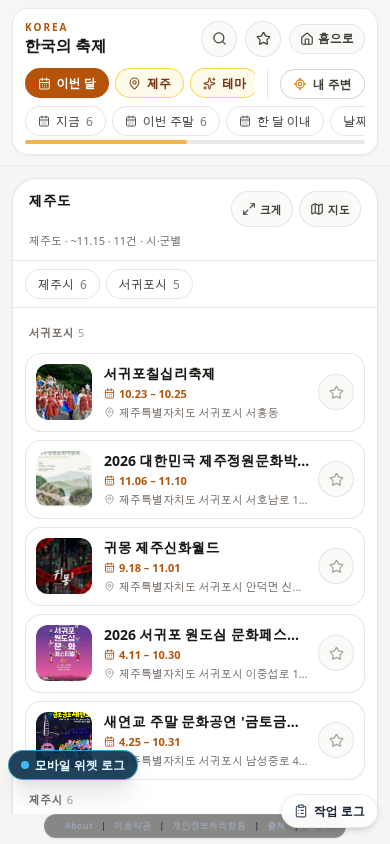
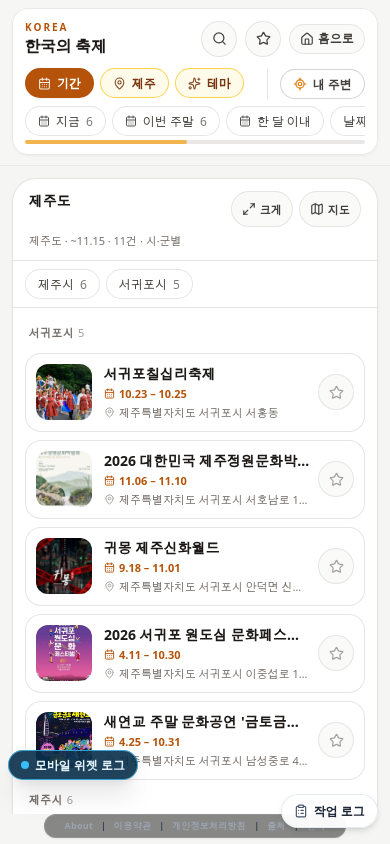
fix(korea): label the default period category 기간
Flag-on landing still uses the 30-day window, but the filled time
category said 이번 달. Show the neutral 기간 / Dates until a period
chip is picked. Flag-off stays 이번 달 / Time.

Changed region(s): [[0.1538, 0.0616, 0.6462, 0.1232]]

diff --git a/src/pages/Korea/festivalHubDefaultPeriod.js b/src/pages/Korea/festivalHubDefaultPeriod.js
@@ -71,3 +71,56 @@ export function festivalHubPeriodMetaLabel({
   }
   return '';
 }
+
+/**
+ * Label stored on the top time category tab.
+ * Flag-on with no period chip selected uses «기간» / «Dates» so the 30-day
+ * default is not called «이번 달». A picked chip keeps that chip's label.
+ * Flag-off still resolves «이번 달» / the active tab.
+ * @param {{
+ *   dateChipEnabled?: boolean,
+ *   activeTab?: { label?: string, headline?: string } | null,
+ *   timeTab?: string,
+ *   t: (key: string, opts?: object) => string,
+ * }} p
+ */
+export function festivalHubTimeMajorLabel({
+  dateChipEnabled = false,
+  activeTab = null,
+  timeTab = '',
+  t,
+}) {
+  if (dateChipEnabled && activeTab?.headline) return String(activeTab.headline);
+  if (activeTab?.label) return String(activeTab.label);
+  if (dateChipEnabled) {
+    return String(t('korea.festival.periodCategory', { defaultValue: '기간' }) || '');
+  }
+  if (timeTab === 'thisMonth') return String(t('korea.festival.timeTab.thisMonth') || '');
+  return String(t('korea.festival.timeTab.now') || '');
+}
+
+/**
+ * Visible text on the top time category tab.
+ * English flag-on is the neutral «Dates». English flag-off stays «Time».
+ * Korean shows the resolved label («기간» until a chip is picked).
+ * @param {{
+ *   dateChipEnabled?: boolean,
+ *   locale?: string,
+ *   timeMajorLabel?: string,
+ *   t: (key: string, opts?: object) => string,
+ * }} p
+ */
+export function festivalHubTimeMajorDisplay({
+  dateChipEnabled = false,
+  locale = 'ko',
+  timeMajorLabel = '',
+  t,
+}) {
+  if (String(locale || '').startsWith('en')) {
+    if (dateChipEnabled) {
+      return String(t('korea.festival.periodCategory', { defaultValue: 'Dates' }) || '');
+    }
+    return String(t('korea.common.time') || '');
+  }
+  return String(timeMajorLabel || '');
+}

diff --git a/src/pages/Korea/index.jsx b/src/pages/Korea/index.jsx
@@ -52,6 +52,8 @@ import {
 import {
   festivalHubFlagOnRangeYmd,
   festivalHubPeriodMetaLabel,
+  festivalHubTimeMajorDisplay,
+  festivalHubTimeMajorLabel,
 } from './festivalHubDefaultPeriod.js';
 import FestivalDateSheet from './FestivalDateSheet';
 import { isGateoFestivalDateChipEnabled } from '../../shared/gateoFeatureFlags';
@@ -2326,13 +2328,13 @@ export default function KoreaFestivalHub() {
     setChipPanel('taste');
   };
 
-  const activeTimeTab = timeTabs.find((tab) => tab.id === timeTab);
-  const timeMajorLabel =
-    (dateChipEnabled && activeTimeTab?.headline
-      ? activeTimeTab.headline
-      : activeTimeTab?.label) ||
-    (timeTab === 'thisMonth' ? t('korea.festival.timeTab.thisMonth') : null) ||
-    t('korea.festival.timeTab.now');
+  const activeTimeTab = timeTabs.find((tab) => tab.id === timeTab) || null;
+  const timeMajorLabel = festivalHubTimeMajorLabel({
+    dateChipEnabled,
+    activeTab: activeTimeTab,
+    timeTab,
+    t,
+  });
   const regionMajorLabel =
     cityName !== 'all'
       ? localizedFestivalCityListLabel(locale, areaCode, cityName)
@@ -2344,8 +2346,12 @@ export default function KoreaFestivalHub() {
     localizedTasteLabel(t, tasteId, tasteLabel(tasteId)) ||
     t('korea.common.theme');
 
-  const majorTimeDisplay =
-    locale === 'en' ? t('korea.common.time') : timeMajorLabel;
+  const majorTimeDisplay = festivalHubTimeMajorDisplay({
+    dateChipEnabled,
+    locale,
+    timeMajorLabel,
+    t,
+  });
   const majorRegionDisplay =
     locale === 'en' ? t('korea.common.region') : regionMajorLabel;
   const majorTasteDisplay =

diff --git a/e2e/korea-festival-date-chip.spec.js b/e2e/korea-festival-date-chip.spec.js
@@ -168,6 +168,9 @@ test.describe('Korea festival date chips', () => {
     await expect(heading).not.toContainText('"');
     await expect(heading).not.toContainText('축제 리스트');
     await expect(page.locator('[data-festival-list-meta]')).toContainText('~11.14');
+    const timeMajor = page.getByRole('button', { name: /시간 대분류/ });
+    await expect(timeMajor).toContainText('기간');
+    await expect(timeMajor).not.toContainText('이번 달');
     await openTimeRow(page);
     const window30Chip = page.locator('[data-period-id="window30"]');
     await expect(window30Chip).toHaveAttribute('aria-pressed', 'false');
